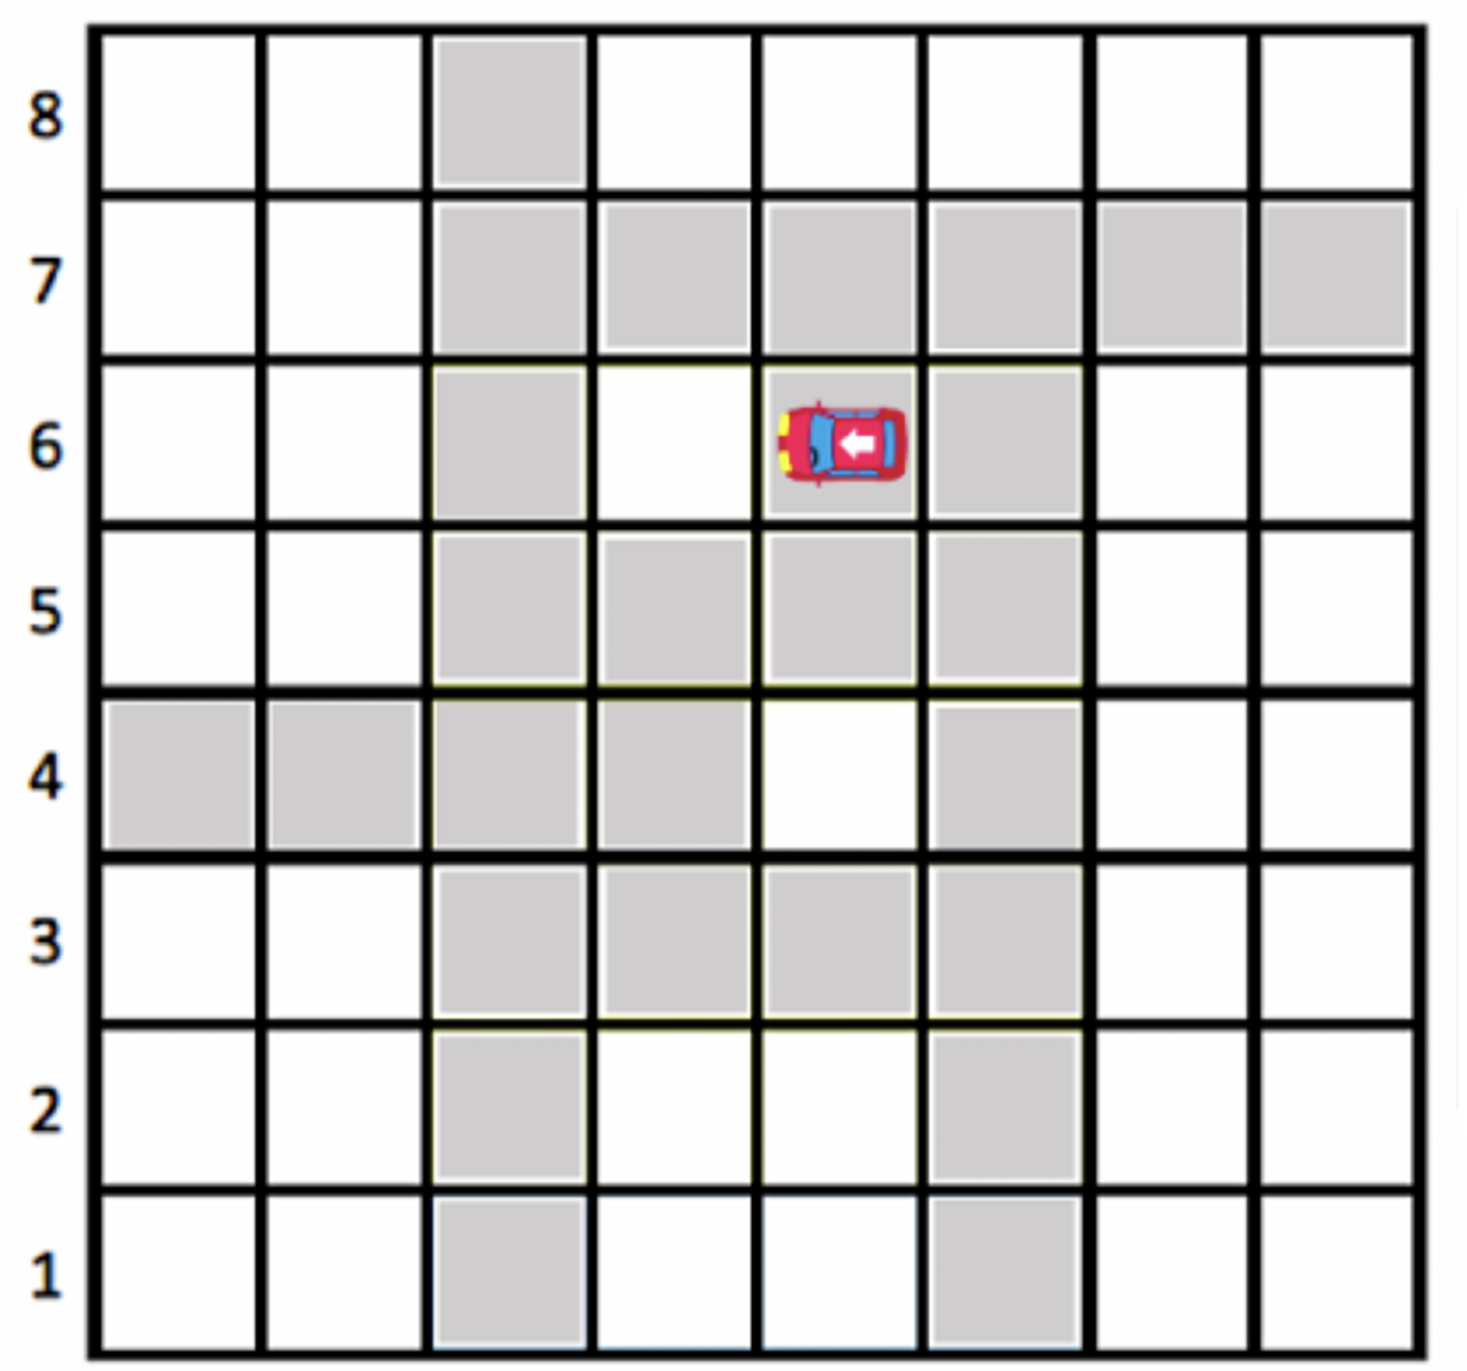
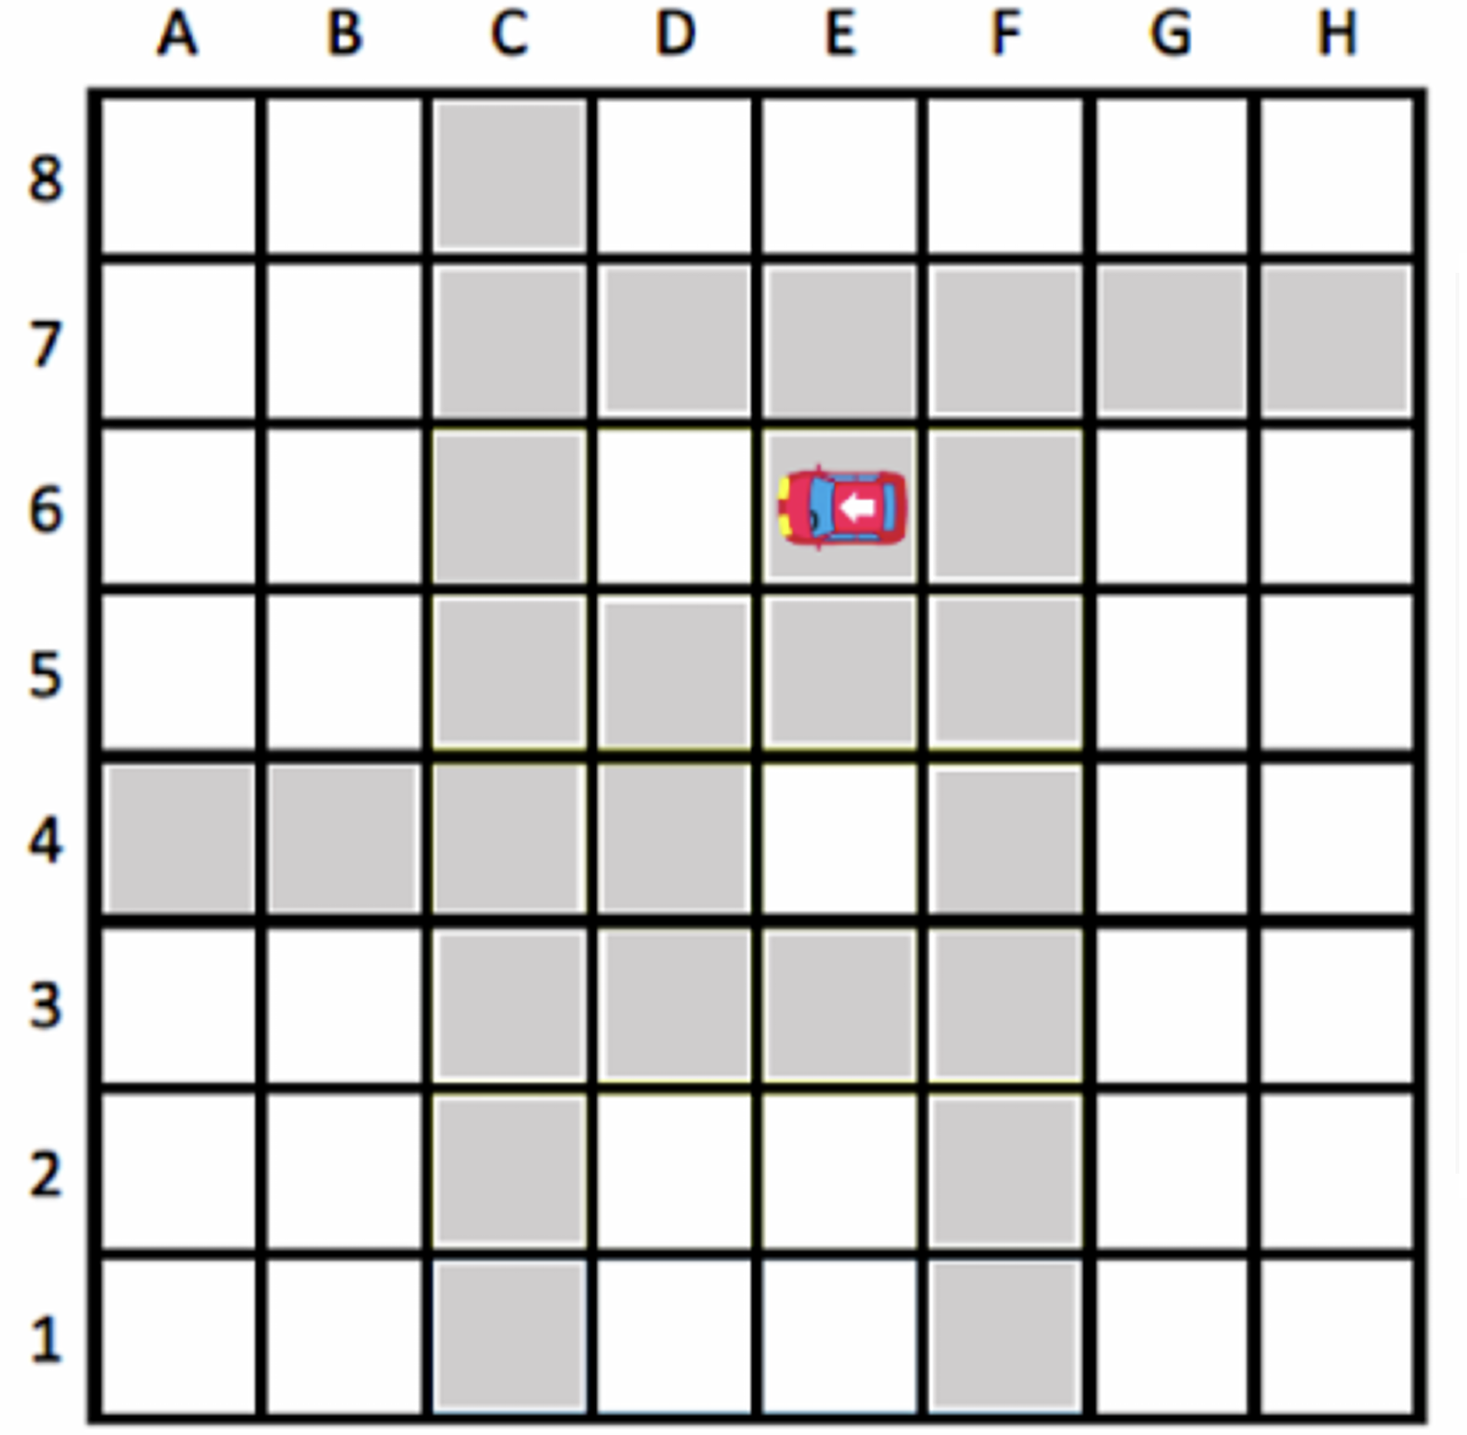
fix: resolve blank screen, vertical scroll, and multiple content issues
- Fix blank screen: add height:100% to #research-form to complete CSS height chain
- Fix vertical scroll: add touchStartPreventDefault:false to Swiper init
- Hide scrollbars visually while keeping scroll functional (all browsers)
- Make ct-right-column independently scrollable on desktop (Q28/29/30)
- Fix CTt9 images: move column header letters (A-H) from code image to board image
- Q31 (he+en): add CTt9 board and code images (same as Q30)
- Q22 (he+en): add click-to-enlarge hint; combine with reminder line using <br>
- Slide 1 (he+en): remove redundant multiple-choice instruction paragraph
- Slide 2 Q2 (he): remove English translation from label and placeholder
- Part D slide (he+en): update click-to-enlarge instruction text
- Example slide (he+en): enlarge move-forward icon 25%; bold last sentence
- Final slide (he+en): center title, add !, remove end-of-questionnaire line, double GIF size

diff --git a/he/index.html b/he/index.html
@@ -56,9 +56,6 @@
                             <li>משך הזמן המוערך הוא כ-30 דקות</li>
                             <li>השאלון מותאם גם לטלפון וטאבלטים</li>
                         </ul>
-                        <p>כאשר מוצגות בפניך שאלות רבות ברירה אנא סמן/י את התשובה הנכונה ביותר לדעתך.<br>
-                        בחלק מהשאלות בשאלון האישי ניתן לסמן יותר מתשובה אחת.</p>
-                        
                         <p>השאלון מועבר במסגרת מחקר שנערך בבית הספר לחינוך באוניברסיטת תל אביב, בהנחיית פרופ' ארנון הרשקוביץ. מילוי השאלון מהווה הסכמה להשתתפות במחקר.</p>
                         <p>לפרטים נוספים, ניתן לפנות לאופיר ונדר ofirvander@mail.tau.ac.il</p>    
                         
@@ -75,10 +72,10 @@
                         <input type="number" id="q1" name="Q01 Age" placeholder="גיל" inputmode="numeric" min="1" max="120" enterkeyhint="next">
                         
                         <p></p>
-                        <label for="q1b" class="question-label">2. מהי ארץ מוצאך? / What is your country of origin?</label>
+                        <label for="q1b" class="question-label">2. מהי ארץ מוצאך?</label>
                         <div class="custom-select-container" id="country-select-container">
                             <div class="custom-select-trigger">
-                                <input type="text" id="country-search" class="custom-select-search" placeholder="הקלד לחיפוש מדינה... / Type to search country..." autocomplete="off">
+                                <input type="text" id="country-search" class="custom-select-search" placeholder="הקלד לחיפוש מדינה..." autocomplete="off">
                                 <span class="custom-select-arrow"></span>
                             </div>
                             <div class="custom-select-options-wrapper" style="display: none;">
@@ -537,7 +534,7 @@
                         <img src="/images/Bebras_GIF.gif" alt="Bebras GIF" class="question-image" loading="lazy">
                         <h3>הוראות:</h3>
                         <p>לעשר השאלות הבאות יש 4 תשובות אפשריות, מהן רק אחת נכונה. אם אינך יודע/ת את התשובה לשאלה, הזן/הזיני את הניחוש הטוב ביותר שלך.</p>
-                        <p> ניתן ללחוץ על התמונה המרכזית, וכל אחת מהתשובות, כדי להגדיל אותן, ולדפדף ביניהן.</p>
+                        <p>ניתן ללחוץ על תמונת השאלה, ועל כל אחת מהתשובות, כדי להגדיל אותן, ולדפדף ביניהן.</p>
                     </div>
                 </div>
 
@@ -550,15 +547,15 @@
                             <img src="/images/PacMan.png" alt="פקמן" class="inline-icon" loading="lazy">
                             צריך לעקוב כדי להגיע לרוח הרפאים 
                             <img src="/images/Ghost.png" alt="רוח הרפאים" class="inline-icon" loading="lazy">.</p>
-                        <p>ההוראה                               
-                            <img src="/images/move forward.png" alt="move forward" class="inline-icon" loading="lazy"> 
+                        <p>ההוראה
+                            <img src="/images/move forward.png" alt="move forward" class="inline-icon" style="height:1.75em;" loading="lazy">
                             מציינת שפקמן צריך לצעוד צעד אחד בכיוון שאליו הוא פונה כרגע.<br>
                             פקמן יכול לפנות ימינה, שמאלה, למעלה או למטה. כרגע פקמן נמצא במשבצת A1 על גבי הלוח.</p>
                             <a href="/images/example grid.png" data-fancybox="example-gallery" data-caption="הלוח של השאלה">
                             <img src="/images/example grid.png" alt="תמונה ראשית לדוגמה" class="question-image" loading="lazy">
                             </a>
                         <p>אילו הוראות תיתן לפקמן כדי שיגיע לרוח הרפאים שבמשבצת C3?<br>
-                        בחר את התשובה הנכונה (בדוגמה זו התשובה הנכונה היא 3).</p>
+                        <strong>בחר את התשובה הנכונה (בדוגמה זו התשובה הנכונה היא 3).</strong></p>
                         
                         <!-- 2. The Answer Options -->
                         <div class="options readonly-example image-answer-options">
@@ -621,7 +618,7 @@
                         <label class="question-label">שאלה 22:</label>
                         <p>פקמן מתחיל במשבצת A5 על גבי הלוח.<br>
                         אילו הוראות תיתן לפקמן כדי שיגיע לרוח הרפאים שבמשבצת A1?</p>
-                        <p>לא לשכוח לסמן את התשובה הנכונה בסיום !</p>
+                        <p>ניתן ללחוץ על כל אחת מהתשובות כדי להגדיל.<br>לא לשכוח לסמן את התשובה הנכונה בסיום !</p>
                         <a href="/images/CTt1_main.png" data-fancybox="q21-gallery" data-caption="הלוח של השאלה">
                             <img src="/images/CTt1_main.png" alt="CTt1_main" class="question-image" loading="lazy">
                         </a>
@@ -984,6 +981,12 @@
                     <div class="slide-content"  tabindex="-1">
                         <label class="question-label">שאלה 31 (בהמשך לשאלה 30):</label>
                         <p>בסיום ההנחיות, לאיזה כיוון תפנה המכונית?</p>
+                        <a href="/images/CTt9_board.png" data-fancybox="q30-gallery" data-caption="הלוח של השאלה">
+                            <img src="/images/CTt9_board.png" alt="CTt9_board" class="question-image" loading="lazy">
+                        </a>
+                        <a href="/images/CTt9_code.png" data-fancybox="q30-gallery" data-caption="בלוק הקוד של השאלה">
+                            <img src="/images/CTt9_code.png" alt="CTt9_code" class="question-image" loading="lazy">
+                        </a>
                         <div class="options">
                             <div class="option"><input type="radio" id="q30a" name="Q31 CTt10" value="Up" ><label for="q30a">למעלה</label></div>
                             <div class="option"><input type="radio" id="q30b" name="Q31 CTt10" value="Left"><label for="q30b">שמאלה</label></div>
@@ -997,8 +1000,7 @@
                 <!-- SLIDE 28: Final Submission Screen -->
                 <div class="swiper-slide">
                     <div class="slide-content" tabindex="-1">
-                        <h2>תודה על השתתפותך</h2>
-                        <p>זהו סוף השאלון.</p>
+                        <h2 style="text-align: center;">תודה על השתתפותך!</h2>
                         <p>אם את/ה רוצה להשתתף בהגרלה לקופון לרכישת מוצרים - הכנס/י כתובת אימייל.</p>
                         <p><strong>בכל מקרה - יש ללחוץ על הכפתור הירוק כדי לשלוח את התשובות.</strong></p>
                         

diff --git a/en/index.html b/en/index.html
@@ -56,9 +56,6 @@
                             <li>Estimated completion time is approximately 30 minutes.</li>
                             <li>The questionnaire is optimized for mobile phones and tablets.</li>
                         </ul>
-                        <p>For multiple-choice questions, please select the response you believe is most correct.<br>
-                        Some questions in the personal section allow selecting more than one answer.</p>
-                        
                         <p>This questionnaire is administered as part of a study conducted at Tel Aviv University's School of Education, supervised by Prof. Arnon Hershkovitz. Completing the questionnaire constitutes consent to participate in the study.</p>
                         <p>For further information, please contact Ofir Vander at ofirvander@mail.tau.ac.il</p>    
                         
@@ -537,7 +534,7 @@
                         <img src="/images/Bebras_GIF.gif" alt="Bebras GIF" class="question-image" loading="lazy">
                         <h3>Instructions:</h3>
                         <p>The following ten questions have 4 possible answers, of which only one is correct. If you do not know the answer to a question, please enter your best guess.</p>
-                        <p>You can tap on the main image and any of the answers to enlarge them and swipe through them.</p>
+                        <p>You can tap on the question image, and on each of the answers, to enlarge them and swipe through them.</p>
                     </div>
                 </div>
 
@@ -550,15 +547,15 @@
                             <img src="/images/PacMan.png" alt="Pac-Man" class="inline-icon" loading="lazy">
                             should follow to reach the ghost 
                             <img src="/images/Ghost.png" alt="Ghost" class="inline-icon" loading="lazy">.</p>
-                        <p>The instruction                               
-                            <img src="/images/move forward.png" alt="move forward" class="inline-icon" loading="lazy"> 
+                        <p>The instruction
+                            <img src="/images/move forward.png" alt="move forward" class="inline-icon" style="height:1.75em;" loading="lazy">
                             indicates that Pac-Man must take one step in the direction he is currently facing.<br>
                             Pac-Man can turn right, left, up, or down. Currently, Pac-Man is located in cell A1 on the board.</p>
                             <a href="/images/example grid.png" data-fancybox="example-gallery" data-caption="The board of the question">
                             <img src="/images/example grid.png" alt="Example main board image" class="question-image" loading="lazy">
                             </a>
                         <p>Which instructions will you give Pac-Man to reach the ghost in cell C3?<br>
-                        Choose the correct answer (in this example, the correct answer is 3).</p>
+                        <strong>Choose the correct answer (in this example, the correct answer is 3).</strong></p>
                         
                         <!-- 2. The Answer Options -->
                         <div class="options readonly-example image-answer-options">
@@ -621,7 +618,7 @@
                         <label class="question-label">Question 22:</label>
                         <p>Pac-Man starts in cell A5 on the board.<br>
                         Which instructions should you give Pac-Man to reach the ghost in cell A1?</p>
-                        <p>Don't forget to select the correct answer when you are done!</p>
+                        <p>You can click on each answer to enlarge it.<br>Don't forget to select the correct answer when you are done!</p>
                         <a href="/images/CTt1_main.png" data-fancybox="q21-gallery" data-caption="The board of the question">
                             <img src="/images/CTt1_main.png" alt="CTt1_main" class="question-image" loading="lazy">
                         </a>
@@ -984,6 +981,12 @@
                     <div class="slide-content"  tabindex="-1">
                         <label class="question-label">Question 31 (following question 30):</label>
                         <p>At the end of the instructions, which direction will the car be facing?</p>
+                        <a href="/images/CTt9_board.png" data-fancybox="q30-gallery" data-caption="The board of the question">
+                            <img src="/images/CTt9_board.png" alt="CTt9_board" class="question-image" loading="lazy">
+                        </a>
+                        <a href="/images/CTt9_code.png" data-fancybox="q30-gallery" data-caption="The code block of the question">
+                            <img src="/images/CTt9_code.png" alt="CTt9_code" class="question-image" loading="lazy">
+                        </a>
                         <div class="options">
                             <div class="option"><input type="radio" id="q30a" name="Q31 CTt10" value="Up" ><label for="q30a">Up</label></div>
                             <div class="option"><input type="radio" id="q30b" name="Q31 CTt10" value="Left"><label for="q30b">Left</label></div>
@@ -997,8 +1000,7 @@
                 <!-- SLIDE 28: Final Submission Screen -->
                 <div class="swiper-slide">
                     <div class="slide-content" tabindex="-1">
-                        <h2>Thank you for your participation</h2>
-                        <p>This is the end of the questionnaire.</p>
+                        <h2 style="text-align: center;">Thank you for your participation!</h2>
                         <p>If you would like to participate in the raffle for a product coupon - please enter your email address.</p>
                         <p><strong>In any case - you must click the green button to submit all your responses.</strong></p>
                         

diff --git a/he/style.css b/he/style.css
@@ -66,6 +66,11 @@ he {
     display: none;
 }
 
+/* Form must have 100% height so .swiper { height: 100% } resolves correctly */
+#research-form {
+    height: 100%;
+}
+
 /* The main swiper container */
 .swiper {
     width: 100%;
@@ -104,7 +109,10 @@ he {
     padding: 20px;
     text-align: right;        /* <-- ADDED: Ensure text aligns to the right */
     touch-action: pan-y;      /* KEEP THIS: Makes the content area swipeable. */
+    scrollbar-width: none;    /* Firefox */
+    -ms-overflow-style: none; /* IE/Edge */
 }
+.slide-content::-webkit-scrollbar { display: none; } /* Chrome/Safari */
 
 /* Question and Image Styles */
 .question-label {
@@ -509,7 +517,7 @@ textarea {
 
 /* Styles the "expecting" gif */
 .final-slide-gif {
-    max-width: 250px;
+    max-width: 500px;
     margin: 20px auto;
     display: block;
     border-radius: 10px;
@@ -734,7 +742,10 @@ textarea {
         padding-left: 15px;
         height: 100%;
         touch-action: pan-y;
+        scrollbar-width: none;
+        -ms-overflow-style: none;
     }
+    .ct-left-column::-webkit-scrollbar { display: none; }
 
     .ct-right-column {
         flex: 1;
@@ -743,21 +754,25 @@ textarea {
         display: flex;
         flex-direction: column;
         align-items: center;
-        justify-content: center;
+        justify-content: flex-start;
         height: 100%;
+        overflow-y: auto;
         background-color: #ffffff;
         border: 1px solid #e2e8f0;
         border-radius: 12px;
         padding: 20px;
         box-shadow: 0 4px 12px rgba(0, 0, 0, 0.05);
+        scrollbar-width: none;
+        -ms-overflow-style: none;
     }
+    .ct-right-column::-webkit-scrollbar { display: none; }
 
     .ct-right-column img.question-image {
-        max-height: 70vh;
+        max-height: 45vh;
         max-width: 100%;
         width: auto;
         object-fit: contain;
-        margin: 0;
+        margin: 0 0 10px 0;
     }
 
     /* Answers in 2x2 grid on desktop */
@@ -822,7 +837,10 @@ textarea {
         padding: 15px 5px;
         touch-action: pan-y;
         -webkit-overflow-scrolling: touch;
+        scrollbar-width: none;
+        -ms-overflow-style: none;
     }
+    .ct-left-column::-webkit-scrollbar { display: none; }
 }
 
 /* --- Custom Searchable Select Styling --- */

diff --git a/en/style.css b/en/style.css
@@ -66,6 +66,11 @@ he {
     display: none;
 }
 
+/* Form must have 100% height so .swiper { height: 100% } resolves correctly */
+#research-form {
+    height: 100%;
+}
+
 /* The main swiper container */
 .swiper {
     width: 100%;
@@ -104,7 +109,10 @@ he {
     padding: 20px;
     text-align: left;         /* <-- LTR text alignment */
     touch-action: pan-y;      /* KEEP THIS: Makes the content area swipeable. */
+    scrollbar-width: none;
+    -ms-overflow-style: none;
 }
+.slide-content::-webkit-scrollbar { display: none; }
 
 /* Question and Image Styles */
 .question-label {
@@ -509,7 +517,7 @@ textarea {
 
 /* Styles the "expecting" gif */
 .final-slide-gif {
-    max-width: 250px;
+    max-width: 500px;
     margin: 20px auto;
     display: block;
     border-radius: 10px;
@@ -734,7 +742,10 @@ textarea {
         padding-left: 15px;
         height: 100%;
         touch-action: pan-y;
+        scrollbar-width: none;
+        -ms-overflow-style: none;
     }
+    .ct-left-column::-webkit-scrollbar { display: none; }
 
     .ct-right-column {
         flex: 1;
@@ -743,21 +754,25 @@ textarea {
         display: flex;
         flex-direction: column;
         align-items: center;
-        justify-content: center;
+        justify-content: flex-start;
         height: 100%;
+        overflow-y: auto;
         background-color: #ffffff;
         border: 1px solid #e2e8f0;
         border-radius: 12px;
         padding: 20px;
         box-shadow: 0 4px 12px rgba(0, 0, 0, 0.05);
+        scrollbar-width: none;
+        -ms-overflow-style: none;
     }
+    .ct-right-column::-webkit-scrollbar { display: none; }
 
     .ct-right-column img.question-image {
-        max-height: 70vh;
+        max-height: 45vh;
         max-width: 100%;
         width: auto;
         object-fit: contain;
-        margin: 0;
+        margin: 0 0 10px 0;
     }
 
     /* Answers in 2x2 grid on desktop */
@@ -822,7 +837,10 @@ textarea {
         padding: 15px 5px;
         touch-action: pan-y;
         -webkit-overflow-scrolling: touch;
+        scrollbar-width: none;
+        -ms-overflow-style: none;
     }
+    .ct-left-column::-webkit-scrollbar { display: none; }
 }
 
 /* --- Custom Searchable Select Styling --- */

diff --git a/en/script.js b/en/script.js
@@ -94,6 +94,9 @@ const swiper = new Swiper('.swiper', {
     mousewheel: false,
     rewind: false,
 
+    // --- Fix: allow native vertical scroll inside slide-content ---
+    touchStartPreventDefault: false,
+
     // --- Balanced Swipe Feel Settings ---
     grabCursor: true,   // Shows a "grab" hand cursor on desktop.
     threshold: 10,      // User must drag at least 10px to start a swipe.

diff --git a/he/script.js b/he/script.js
@@ -94,6 +94,9 @@ const swiper = new Swiper('.swiper', {
     mousewheel: false,
     rewind: false,
 
+    // --- Fix: allow native vertical scroll inside slide-content ---
+    touchStartPreventDefault: false,
+
     // --- Balanced Swipe Feel Settings ---
     grabCursor: true,   // Shows a "grab" hand cursor on desktop.
     threshold: 10,      // User must drag at least 10px to start a swipe.
